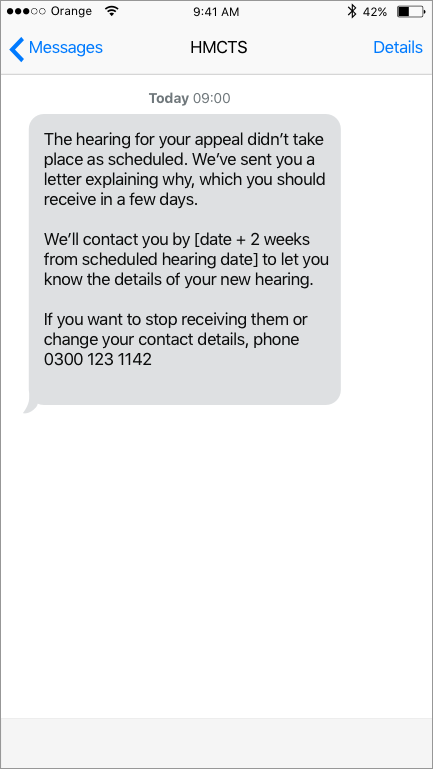
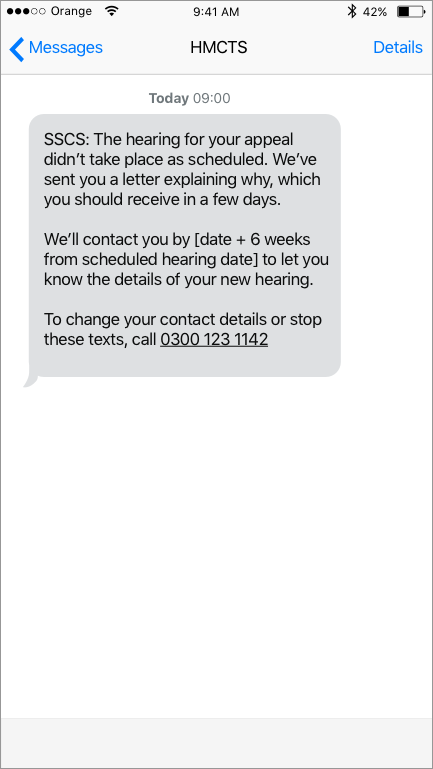
sms bs09 updates

Changed region(s): [[0.06, 0.4057, 0.8106, 0.5306], [0.0901, 0.156, 0.7506, 0.3433], [0.6605, 0.2809, 0.7206, 0.3433]]

diff --git a/app/views/prototype-beta-09/notifications/sms-hearing-reminder-1day.html b/app/views/prototype-beta-09/notifications/sms-hearing-reminder-1day.html
@@ -9,7 +9,7 @@ SMS - Hearing reminder 1 day (PHHR1-T)
 <main id="content" role="main" style="margin: 0 auto; width: 450px; text-align: left;">
 
 
-<a href="../what-to-expect-at-your-hearing"><img src="/public/images/bs08/sms-hearing-reminder-1day.png"></a>
+<a href="../what-to-expect-at-your-hearing"><img src="/public/images/bs09/sms-hearing-reminder-1day.png"></a>
 
            <div style="margin-top: 40px; font-size: 14px;">
             <p><a href="../journey-derick">Index</a></p>

diff --git a/app/views/prototype-beta-09/notifications/sms-confirmation.html b/app/views/prototype-beta-09/notifications/sms-confirmation.html
@@ -8,7 +8,7 @@ SMS - Confirmation
 
 <main id="content" role="main" style="margin: 0 auto; width: 450px; text-align: left;">
 
-<a href="../status?casenumber=SC012%2F34%2F56789&status=appeald"><img src="/public/images/bs08/sms-confirmation.png"></a>
+<a href="../status?casenumber=SC012%2F34%2F56789&status=appeald"><img src="/public/images/bs09/sms-confirmation.png"></a>
 
            <div style="margin-top: 40px; font-size: 14px;">
             <p><a href="../index">Index</a> </p>

diff --git a/app/views/prototype-beta-09/notifications/sms-evidence-received.html b/app/views/prototype-beta-09/notifications/sms-evidence-received.html
@@ -8,7 +8,7 @@ SMS - Evidence received (PHER1-T)
 
 <main id="content" role="main" style="margin: 0 auto; width: 450px; text-align: left;">
 
-<a href="../status-evidence-received-dwp-response"><img src="/public/images/bs08/sms-evidence-received.png"></a>
+<a href="../status-evidence-received-dwp-response"><img src="/public/images/bs09/sms-evidence-received.png"></a>
 
            <div style="margin-top: 40px; font-size: 14px;">
             <p><a href="../index">Index</a> </p>

diff --git a/app/views/prototype-beta-09/notifications/sms-evidence-reminder-not-sent.html b/app/views/prototype-beta-09/notifications/sms-evidence-reminder-not-sent.html
@@ -8,7 +8,7 @@ SMS - Evidence reminder - not sent (PHER1-T)
 
 <main id="content" role="main" style="margin: 0 auto; width: 450px; text-align: left;">
 
-<a href="../benefit-appeal-evidence"><img src="/public/images/bs08/sms-evidence-reminder-not-sent.png"></a>
+<a href="../benefit-appeal-evidence"><img src="/public/images/bs09/sms-evidence-reminder-not-sent.png"></a>
 
 
            <div style="margin-top: 40px; font-size: 14px;">

diff --git a/app/views/prototype-beta-09/notifications/sms-hearing-reminder-1wk.html b/app/views/prototype-beta-09/notifications/sms-hearing-reminder-1wk.html
@@ -9,7 +9,7 @@ SMS - Hearing reminder 1 week (PHHR2-T)
 <main id="content" role="main" style="margin: 0 auto; width: 450px; text-align: left;">
 
 
-<a href="../what-to-expect-at-your-hearing"><img src="/public/images/bs08/sms-hearing-reminder-1wk.png"></a>
+<a href="../what-to-expect-at-your-hearing"><img src="/public/images/bs09/sms-hearing-reminder-1wk.png"></a>
 
 
            <div style="margin-top: 40px; font-size: 14px;">

diff --git a/app/views/prototype-beta-09/notifications/sms-evidence-reminder-sent.html b/app/views/prototype-beta-09/notifications/sms-evidence-reminder-sent.html
@@ -8,7 +8,7 @@ SMS - Evidence reminder - sent (PHER2-T)
 
 <main id="content" role="main" style="margin: 0 auto; width: 450px; text-align: left;">
 
-<a href="../benefit-appeal-evidence"><img src="/public/images/bs08/sms-evidence-reminder-sent.png"></a>
+<a href="../benefit-appeal-evidence"><img src="/public/images/bs09/sms-evidence-reminder-sent.png"></a>
 
 
            <div style="margin-top: 40px; font-size: 14px;">

diff --git a/app/views/prototype-beta-09/notifications/sms-confirmation-supporter.html b/app/views/prototype-beta-09/notifications/sms-confirmation-supporter.html
@@ -8,7 +8,7 @@ SMS - Evidence received (PHER1-T)
 
 <main id="content" role="main" style="margin: 0 auto; width: 450px; text-align: left;">
 
-<img src="/public/images/bs08/sms-confirmation-supporter.png">
+<img src="/public/images/bs09/sms-confirmation-supporter.png">
 
            <div style="margin-top: 40px; font-size: 14px;">
             <p><a href="../index">Index</a> </p>
